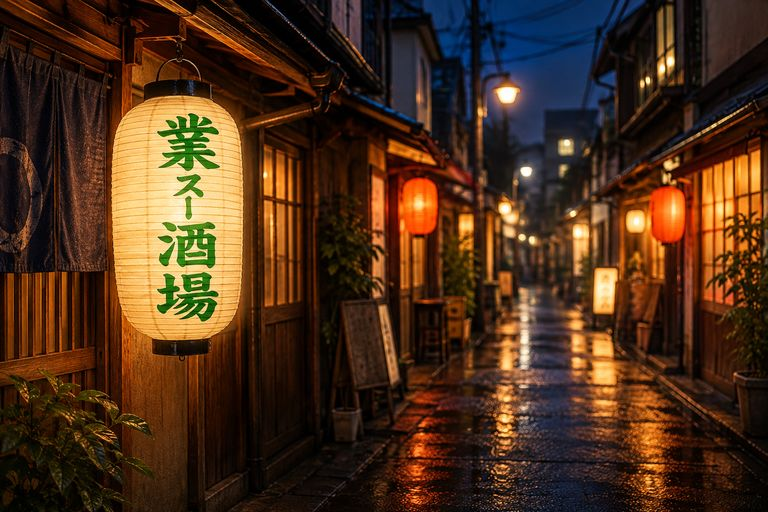
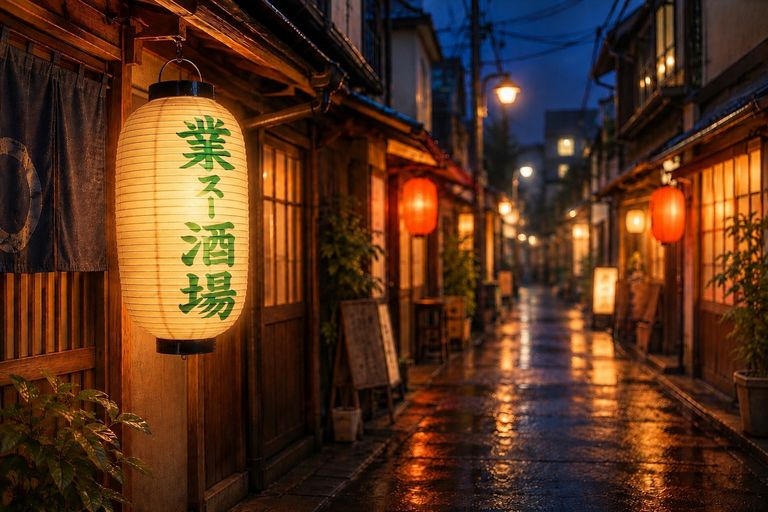
ページ上部の絵を、提灯の文字を描き直した版（v5）に差し替える
提灯の文字を曲面と灯りになじませ、提灯を路地の方へ少し回して、路地から
文字が読みやすくなった版。

Claude-Session: https://claude.ai/code/session_01NVsEU1RmB8DQTccszYKfjE

diff --git a/design/README.md b/design/README.md
@@ -6,7 +6,8 @@
 | `chochin-prompt.md` | 提灯の絵を ChatGPT に頼むプロンプト |
 | `chochin-chatgpt-original.png` | ChatGPT が作った提灯の絵（2026-10-31）。採用。「スー」は縦中横（横並び）、背景は黒（夜に灯っている表現） |
 | `alley-prompt.md` | 夜の路地の絵（ページ上部の背景）を ChatGPT に頼むプロンプト |
-| `alley-lantern-text-prompt.md` | 路地の絵の提灯の文字を、曲面と灯りになじませて描き直してもらうプロンプト（2026-11-01） |
+| `alley-lantern-text-prompt.md` | 路地の絵の提灯の文字を、曲面と灯りになじませて描き直してもらうプロンプト（2026-11-01、4回） |
+| `alley-lantern-text-v2.png`〜`v5.png` | その描き直しの途中の絵。**v5 を採用**し、ページ上部の絵を差し替えた |
 | `alley-chatgpt-original.png` | ChatGPT が作った夜の路地の絵（2026-10-31）。採用。ページ上部の背景にした（`site/assets/hero-768.jpg`・`hero-1536.jpg` は縮めて軽くしたもの）。文字を重ねる下の方の暗いグラデーションはページ側（`site/template.html` の `.hero`）でかけている |
 | `logo-chatgpt-original.webp` | ChatGPT が作ったロゴの元の画像（2026-10-30）。文字以外の緑（円・マスの線）があったので、Claude が消して `site/assets/logo-mark.png` にした。アイコン（タブ・ホーム画面）に使う。ページ上部は夜の路地の絵にしたので、ページには出していない |
 

diff --git a/STATUS.md b/STATUS.md
@@ -67,6 +67,8 @@
 
 - 2026-11-01: PR #17 をマージ。路地の絵の提灯の文字が平らに見える（曲面・灯りに合っていない）ので、文字だけを描き直してもらうプロンプトを作った → `design/alley-lantern-text-prompt.md`。できたらページ上部の絵を差し替える
 
+- 2026-11-01: 路地の絵の提灯を ChatGPT で4回描き直した（文字を曲面と灯りになじませる → 右側が遠くに見えるように → 提灯を路地の方へ20〜30度回す → 細長くなったので太さを戻す）。v5 を採用し、ページ上部の絵を差し替えた → `design/alley-lantern-text-prompt.md`
+
 ## 次にやること
 
 | やること | 担当 |

diff --git a/design/alley-lantern-text-prompt.md b/design/alley-lantern-text-prompt.md
@@ -110,3 +110,7 @@
 ・路地、ほかの明かり、構図、画像の大きさ（1536×1024）
 ・提灯以外は描き直さない
 ```
+
+## 結果（2026-11-01）
+
+4回目の結果 `design/alley-lantern-text-v5.png` を採用し、ページ上部の絵（`site/assets/hero-768.jpg`・`hero-1536.jpg`）を差し替えた。提灯の太さが戻り、文字が路地の方を向いて読みやすい。文字の緑は2回目の版より明るいが、ページ上部の小さな大きさではかえって読みやすい。気になる点（直すなら）: 左の端へ回り込むところの暗さが弱い、「場」の右端が提灯の縁に近い。
